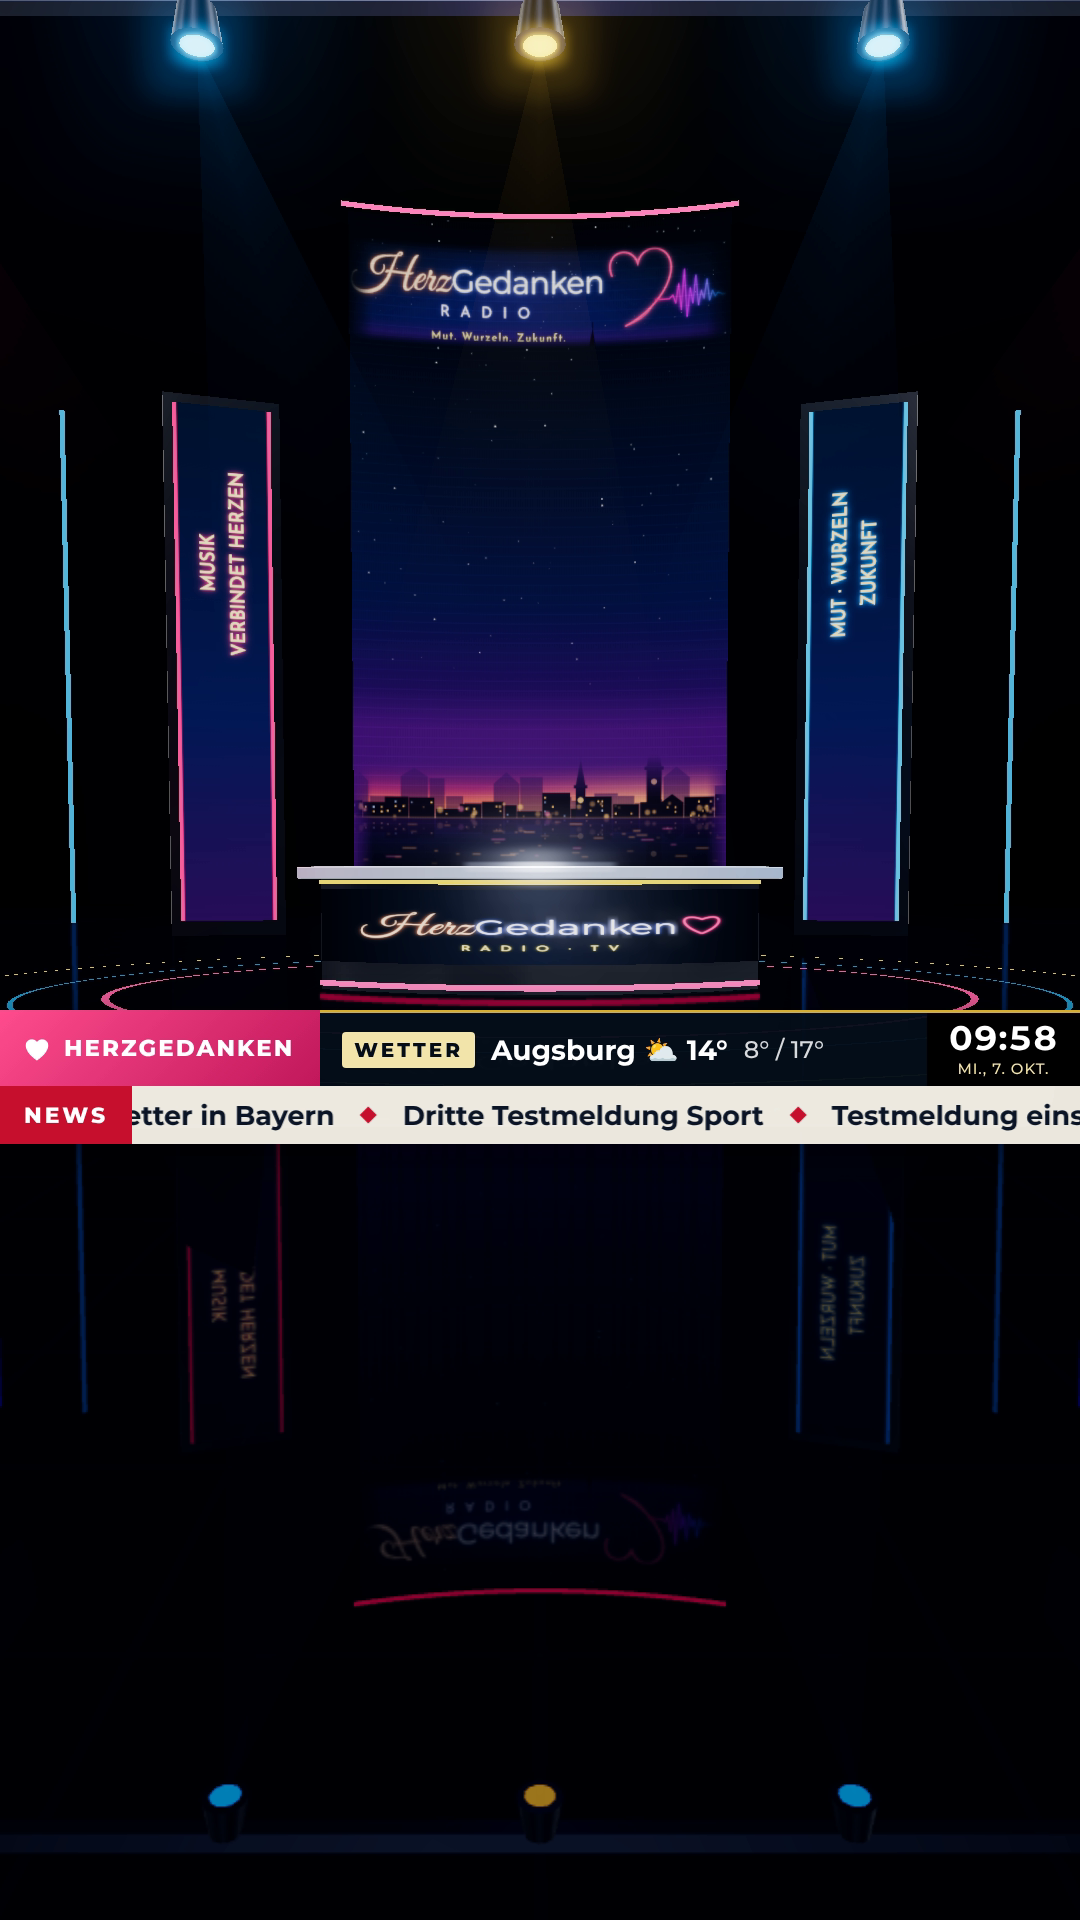
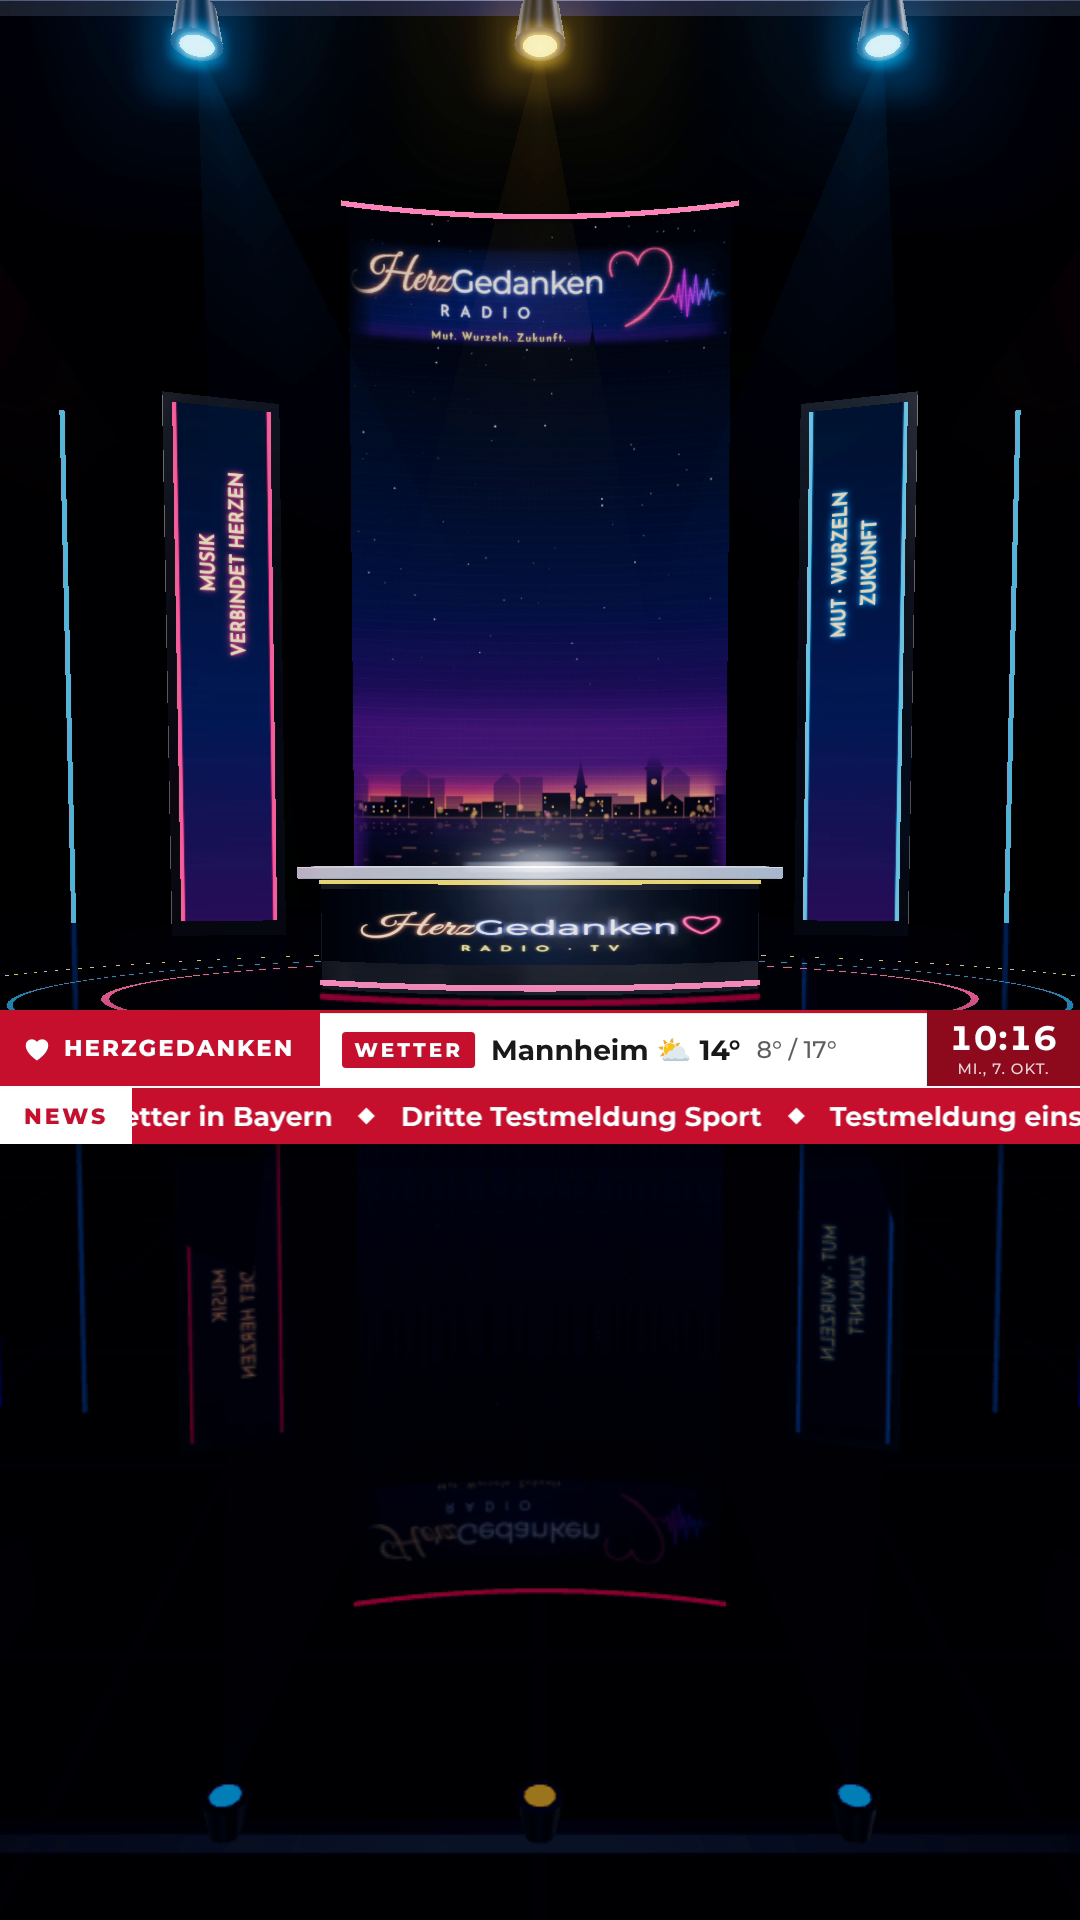
Ticker: red and white news style
Claude-Session: https://claude.ai/code/session_01EPdZNJatCHpBTnm4QjpNoU

Changed region(s): [[0.0, 0.5, 1.0, 0.5938]]

diff --git a/herzgedanken-tv/laufband/laufband.html b/herzgedanken-tv/laufband/laufband.html
@@ -24,29 +24,29 @@
   /* Zeile 1: Senderkennung, Info-Wechsel, Uhr */
   .row1 { display: flex; height: 76px; }
   .brand { flex: none; display: flex; align-items: center; gap: 12px; padding: 0 26px 0 22px;
-    background: linear-gradient(135deg, var(--pink), #C2185B); color: #fff; font-weight: 800; font-size: 23px; letter-spacing: 2px; }
+    background: var(--red); color: #fff; font-weight: 800; font-size: 23px; letter-spacing: 2px; }
   .brand svg { width: 30px; height: 28px; }
-  .info { position: relative; flex: 1; overflow: hidden; background: rgba(5,14,26,.92); border-top: 3px solid var(--gold); }
+  .info { position: relative; flex: 1; overflow: hidden; background: #fff; border-top: 3px solid var(--red); }
   .slide { position: absolute; inset: 0; display: flex; align-items: center; gap: 16px; padding: 0 22px;
-    color: #fff; font-weight: 700; font-size: 28px; white-space: nowrap; opacity: 0; transform: translateY(100%);
+    color: #1A1A1A; font-weight: 700; font-size: 28px; white-space: nowrap; opacity: 0; transform: translateY(100%);
     transition: transform .6s cubic-bezier(.2,.8,.2,1), opacity .6s; }
   .slide.on { opacity: 1; transform: none; }
   .slide.off { opacity: 0; transform: translateY(-100%); }
-  .tag { font-size: 20px; font-weight: 800; letter-spacing: 3px; color: var(--night); background: var(--beige); padding: 6px 12px; border-radius: 4px; }
-  .up { color: #3DDC84; } .down { color: #FF5A6E; }
+  .tag { font-size: 20px; font-weight: 800; letter-spacing: 3px; color: #fff; background: var(--red); padding: 6px 12px; border-radius: 4px; }
+  .up { color: #0A8F3C; } .down { color: var(--red); }
   .clock { flex: none; display: flex; flex-direction: column; justify-content: center; align-items: center; padding: 0 22px;
-    background: #000; color: #fff; border-top: 3px solid var(--gold); }
+    background: #8E0B1F; color: #fff; border-top: 3px solid #8E0B1F; }
   .clock b { font-size: 34px; font-weight: 700; font-variant-numeric: tabular-nums; letter-spacing: 1px; line-height: 1; }
-  .clock span { font-size: 15px; font-weight: 500; color: var(--beige); margin-top: 4px; letter-spacing: 1px; }
+  .clock span { font-size: 15px; font-weight: 500; color: #fff; opacity: .85; margin-top: 4px; letter-spacing: 1px; }
 
   /* Zeile 2: Laufschrift */
-  .row2 { display: flex; height: 58px; background: rgba(243,239,230,.97); }
-  .label { flex: none; display: flex; align-items: center; padding: 0 24px; background: var(--red); color: #fff;
+  .row2 { display: flex; height: 58px; background: var(--red); border-top: 2px solid #fff; }
+  .label { flex: none; display: flex; align-items: center; padding: 0 24px; background: #fff; color: var(--red);
     font-weight: 800; font-size: 22px; letter-spacing: 3px; }
   .track { position: relative; flex: 1; overflow: hidden; }
   .run { position: absolute; top: 0; height: 100%; display: flex; align-items: center; white-space: nowrap; left: 0;
-    color: #0B1628; font-weight: 600; font-size: 27px; will-change: transform; }
-  .run .dot { display: inline-block; width: 12px; height: 12px; background: var(--red); margin: 0 28px; transform: rotate(45deg); }
+    color: #fff; font-weight: 600; font-size: 27px; will-change: transform; }
+  .run .dot { display: inline-block; width: 12px; height: 12px; background: #fff; margin: 0 28px; transform: rotate(45deg); }
 
   body.capture #stage { transform: none !important; }
 </style>
@@ -146,7 +146,7 @@ function slides() {
   const h = new Date().getHours(), out = [];
   out.push(`<span class="tag">${esc(greeting(h).toUpperCase())}</span> Schön, dass du da bist`);
   for (const w of data.wetter) {
-    out.push(`<span class="tag">WETTER</span> ${esc(w.ort)} ${w.icon} ${w.temp}° <span style="font-weight:500;font-size:24px;opacity:.85">${w.min}° / ${w.max}°</span>`); }
+    out.push(`<span class="tag">WETTER</span> ${esc(w.ort)} ${w.icon} ${w.temp}° <span style="font-weight:500;font-size:24px;opacity:.7">${w.min}° / ${w.max}°</span>`); }
   if (data.dax && isFinite(data.dax.wert)) { const d = data.dax;
     const ch = d.diff == null ? '' : `<span class="${d.diff >= 0 ? 'up' : 'down'}">${d.diff >= 0 ? '▲ +' : '▼ '}${fmt(d.diff)} %</span>`;
     out.push(`<span class="tag">BÖRSE</span> DAX ${fmt(d.wert)} ${ch}`); }

diff --git a/herzgedanken-tv/README.md b/herzgedanken-tv/README.md
@@ -72,4 +72,4 @@ Parameter:
 - `dax=19234,5&daxplus=0,4`: DAX von Hand, falls der Live-Abruf blockiert ist
 - `y=1010`: Höhe des Banners in Pixeln, `quer=1`: Querformat 1920×1080
 
-Vorschau: `laufband/vorschau-morgen-mit-laufband.png`, `laufband/vorschau-abend-mit-laufband.png`
+Vorschau: `laufband/vorschau-morgen-mit-laufband.png`, `laufband/vorschau-tag-mit-laufband.png`, `laufband/vorschau-abend-mit-laufband.png`. Farben: Rot/Weiß
